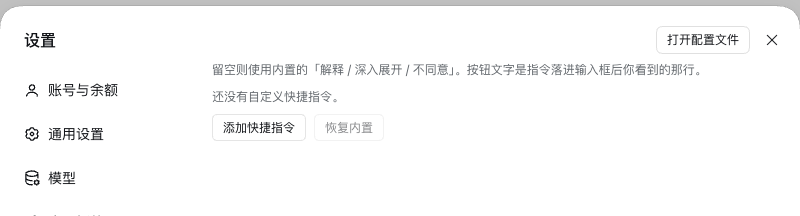
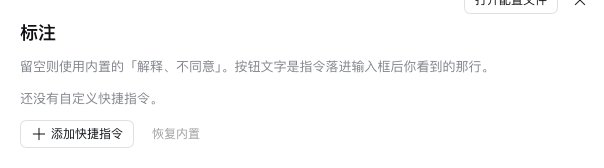
feat(settings): rebuild the section on the shell's settings language
The page was a stack of unstyled inputs: its stylesheet block had been dropped
in an earlier slice, and the controls were bespoke. It now matches the app's
own settings pages — 18px heading, 13px intro, hairline row cards, 32px inputs
with the focus token, 28px glyph buttons, and primitive Button variants for
add and reset.

diff --git a/src/client/BoostSettingsRow.tsx b/src/client/BoostSettingsRow.tsx
@@ -1,16 +1,21 @@
 /**
- * The Plugins-page row for boost.
+ * The Settings-page body for boost.
  *
  * It edits the one thing the plugin lets users decide: their own shortcuts.
  * The annotation list itself has no configurable surface by design — colours
  * and filters carry meaning, so they are not user inputs.
+ *
+ * The surface follows the shell's settings sections: an 18px heading, a 13px
+ * intro, hairline input rows and primitive buttons, so the page reads as part
+ * of Settings rather than as a plugin bolted onto it.
  */
 import { useEffect, useState } from 'react'
 import type { ReactElement } from 'react'
+import { Button, IconPlusOutlineRegular, IconTrashOutlineRegular } from '@deepseek-ai/dsh-client-ui-primitives'
 import type { Preset } from './contract.ts'
 import type { BoostKey } from './locales.ts'
 
-/** One settings write the Plugins page accepts. */
+/** One settings write the settings page accepts. */
 export interface BoostConfigOp {
   /** Set or clear one field. */
   op: 'set' | 'unset'
@@ -32,10 +37,8 @@ export interface BoostConfigState {
   writable: boolean
 }
 
-/** Owner props of this slot: the two views the Plugins page renders. */
+/** Owner props of this slot. */
 export interface BoostSettingsRowProps {
-  /** `summary` fills the description line; `page` renders the body. */
-  view: 'summary' | 'page'
   /** Namespace translator supplied by the slot registration. */
   t?(key: BoostKey): string
   /** Row settings face, absent while the namespace is not served. */
@@ -46,11 +49,11 @@ export interface BoostSettingsRowProps {
 }
 
 /**
- * Render the row config page.
- * @param props - owner props supplied by the Plugins page.
- * @returns the description line, the form, or null while nothing is known.
+ * Render the boost settings page.
+ * @param props - owner props supplied by the settings section.
+ * @returns the heading, the shortcut rows and their actions.
  */
-export function BoostSettingsRow({ view, form, t }: BoostSettingsRowProps): ReactElement | null {
+export function BoostSettingsRow({ form, t }: BoostSettingsRowProps): ReactElement | null {
   const copy = (key: BoostKey): string => t?.(key) ?? key
   const [draft, setDraft] = useState<Preset[] | null>(null)
 
@@ -63,14 +66,6 @@ export function BoostSettingsRow({ view, form, t }: BoostSettingsRowProps): Reac
   const state = form.state
   const presets = draft ?? state.value?.presets ?? []
 
-  if (view === 'summary') {
-    return <span>{copy('settings.summary').replace('{count}', String(presets.length))}</span>
-  }
-  // A row with no config entry yet still gets a usable page: the list starts
-  // empty and the first write creates the namespace field. Blocking here left
-  // a fresh install with a hint and no controls.
-  if (state.status === 'loading') return <p className="dsh-boost-settings-hint">{copy('settings.hint')}</p>
-
   /** Persist one list and adopt it locally. */
   const commit = (next: Preset[]): void => {
     setDraft(next)
@@ -80,58 +75,63 @@ export function BoostSettingsRow({ view, form, t }: BoostSettingsRowProps): Reac
   const edit = (index: number, field: keyof Preset, value: string): void => {
     setDraft(presets.map((preset, at) => at === index ? { ...preset, [field]: value } : preset))
   }
-  const disabled = !state.writable
+  const disabled = !state.writable || state.status === 'loading'
 
   return (
     <div className="dsh-boost-settings">
-      <p className="dsh-boost-settings-hint">{copy('settings.hint')}</p>
-      {presets.length === 0 && <p className="dsh-boost-settings-hint">{copy('settings.empty')}</p>}
+      <h2 className="dsh-boost-settings-title">{copy('nav')}</h2>
+      <p className="dsh-boost-settings-intro">{copy('settings.hint')}</p>
+      {presets.length === 0 && <p className="dsh-boost-settings-empty">{copy('settings.empty')}</p>}
       {presets.map((preset, index) => (
-        <div className="dsh-boost-settings-row" key={index}>
+        <div className="dsh-boost-preset" key={index}>
           <input
-            className="dsh-boost-settings-input"
-            style={{ width: 120 }}
+            className="dsh-boost-input"
             value={preset.label}
             placeholder={copy('settings.label')}
+            aria-label={copy('settings.label')}
             disabled={disabled}
             onChange={event => { edit(index, 'label', event.target.value) }}
             onBlur={() => { commit(presets) }}
           />
           <input
-            className="dsh-boost-settings-input"
+            className="dsh-boost-input"
             value={preset.prompt}
             placeholder={copy('settings.prompt')}
+            aria-label={copy('settings.prompt')}
             disabled={disabled}
             onChange={event => { edit(index, 'prompt', event.target.value) }}
             onBlur={() => { commit(presets) }}
           />
           <button
             type="button"
-            className="dsh-boost-settings-button"
+            className="dsh-boost-settings-trash"
+            aria-label={copy('settings.remove')}
+            title={copy('settings.remove')}
             disabled={disabled}
             onClick={() => { commit(presets.filter((_, at) => at !== index)) }}
           >
-            {copy('settings.remove')}
+            <IconTrashOutlineRegular />
           </button>
         </div>
       ))}
-      <div className="dsh-boost-settings-row">
-        <button
-          type="button"
-          className="dsh-boost-settings-button"
+      <div className="dsh-boost-settings-actions">
+        <Button
+          variant="outline"
+          size="sm"
+          icon={<IconPlusOutlineRegular />}
           disabled={disabled}
           onClick={() => { commit([...presets, { label: '', prompt: '' }]) }}
         >
           {copy('settings.add')}
-        </button>
-        <button
-          type="button"
-          className="dsh-boost-settings-button"
+        </Button>
+        <Button
+          variant="ghost"
+          size="sm"
           disabled={disabled || presets.length === 0}
           onClick={() => { commit([]) }}
         >
           {copy('settings.reset')}
-        </button>
+        </Button>
       </div>
     </div>
   )

diff --git a/src/client/styles.ts b/src/client/styles.ts
@@ -491,4 +491,84 @@ body[data-ds-dark-theme] .dsh-boost-more:hover {
   filter: brightness(1.05);
 }
 
+
+/* Settings section. Mirrors the shell's settings pages: 18px heading, 13px
+   intro, hairline rows, 32px inputs and primitive buttons. */
+.dsh-boost-settings {
+  display: flex;
+  flex-direction: column;
+  gap: 12px;
+  max-width: 760px;
+  color: var(--dsw-alias-label-primary, #1f2328);
+}
+.dsh-boost-settings-title {
+  margin: 0;
+  font-size: 18px;
+  font-weight: 600;
+}
+.dsh-boost-settings-intro,
+.dsh-boost-settings-empty {
+  margin: 0;
+  font-size: 13px;
+  line-height: 1.5;
+  color: var(--dsw-alias-label-tertiary, #9aa0a6);
+}
+.dsh-boost-preset {
+  display: grid;
+  grid-template-columns: minmax(0, 1fr) minmax(0, 2.2fr) auto;
+  align-items: center;
+  gap: 6px;
+  border: 0.5px solid var(--dsw-alias-border-l4, rgba(0, 0, 0, 0.15));
+  border-radius: var(--dsw-radius-lg, 12px);
+  padding: 6px;
+}
+.dsh-boost-input {
+  box-sizing: border-box;
+  width: 100%;
+  height: 32px;
+  padding: 0 10px;
+  border: 0.5px solid var(--dsw-alias-border-l4, rgba(0, 0, 0, 0.15));
+  border-radius: var(--dsw-radius-md, 10px);
+  font: inherit;
+  font-size: 14px;
+  line-height: 22px;
+  background: var(--dsw-alias-bg-layer-1, #ffffff);
+  color: var(--dsw-alias-label-primary, #1f2328);
+}
+.dsh-boost-input:focus {
+  outline: none;
+  border-color: var(--dsw-alias-state-business-primary, #2563eb);
+}
+.dsh-boost-input::placeholder {
+  color: var(--dsw-alias-label-dimmed, #b6bcc6);
+}
+.dsh-boost-input:disabled {
+  opacity: 0.6;
+  cursor: default;
+}
+.dsh-boost-settings-trash {
+  box-sizing: border-box;
+  display: inline-flex;
+  align-items: center;
+  justify-content: center;
+  width: 28px;
+  height: 28px;
+  border: none;
+  border-radius: var(--dsw-radius-sm, 8px);
+  background: transparent;
+  color: var(--dsw-alias-label-tertiary, #9aa0a6);
+  cursor: pointer;
+}
+.dsh-boost-settings-trash:hover:not(:disabled) {
+  background: var(--dsw-alias-interactive-bg-hover-danger, rgba(220, 38, 38, 0.08));
+  color: var(--dsw-alias-state-error-primary, #dc2626);
+}
+.dsh-boost-settings-trash:disabled {
+  cursor: default;
+  opacity: 0.4;
+}
+.dsh-boost-settings-actions {
+  display: flex;
+  gap: 8px;
+}
 `

diff --git a/src/client/BoostSettingsSection.tsx b/src/client/BoostSettingsSection.tsx
@@ -48,7 +48,6 @@ export function BoostSettingsSection({ t, form }: BoostSettingsSectionProps): Re
 
   return (
     <BoostSettingsRow
-      view="page"
       t={t}
       form={{ state, mutate: (ops, revision) => form.mutate(ops, revision) }}
     />

diff --git a/CHANGELOG.md b/CHANGELOG.md
@@ -2,6 +2,8 @@
 
 ## 未发布
 
+- 设置页按本体设置页的语言重做：18px 标题、13px 说明、`0.5px` 描边的行卡片、32px 输入框（`--dsw-radius-md`、聚焦时边框转为 `--dsw-alias-state-business-primary`）、28px 的图标按钮；「添加快捷指令 / 恢复内置」改用原语 `Button`（outline / ghost）。顺带补回此前丢失的整块设置样式。
+
 - 默认快捷指令去掉「深入展开」，内置两条：解释、不同意。保留后者是因为它与「解释」意图不同（求理解 vs 求对抗），也是唯一能展示「备注 + 指令」组合的条目。
 
 - 修标点：指令现在排在最后一行，末尾的「：」等于宣布“下面还有内容”却没有下文，改成句号收尾（「解释上面这段内容。」「把上面这段展开讲。」「我不同意上面这段，说说你的理由。」）。
